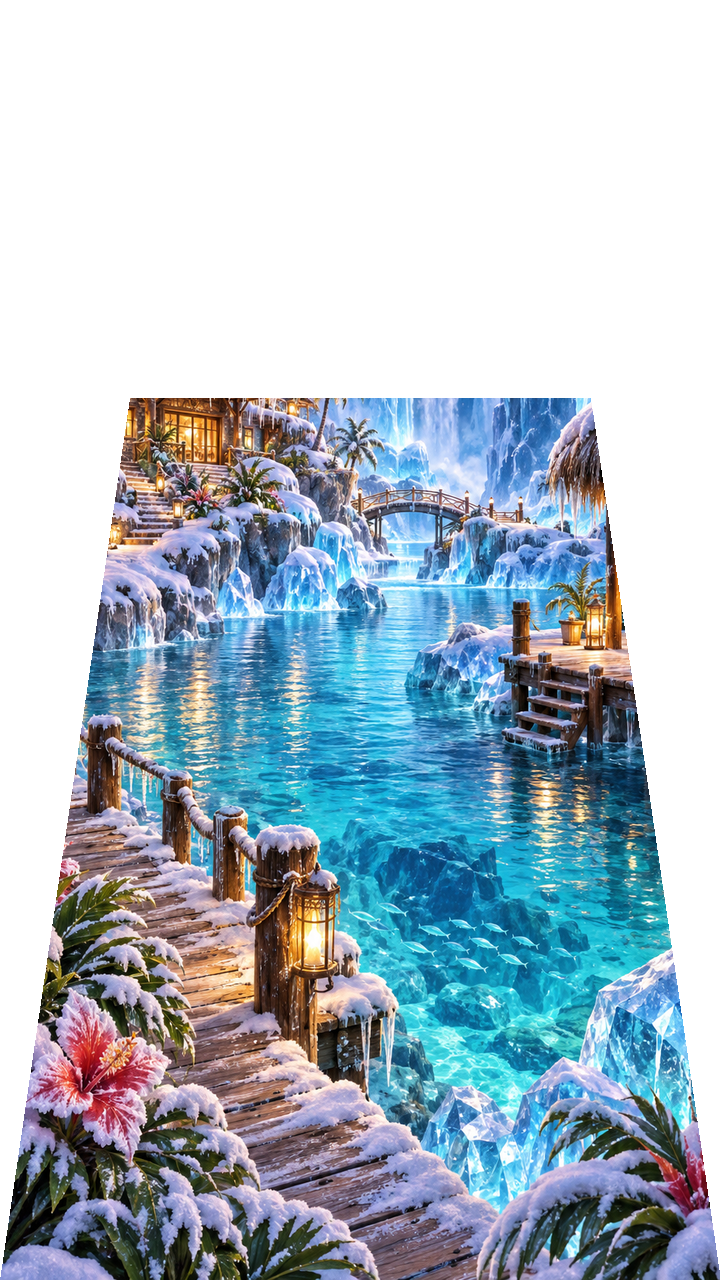
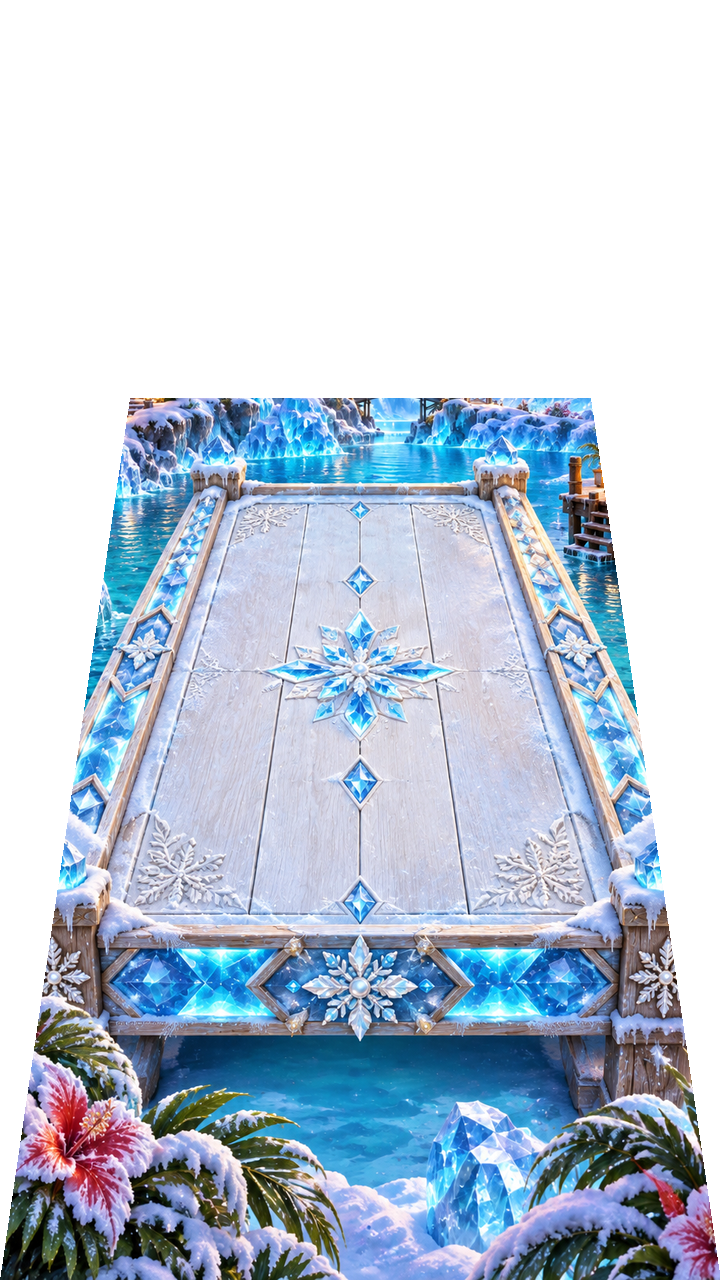
Generate Frozen Paradise visual asset pack

diff --git a/coordination/codex_visual_assets/CODEX_VISUAL_ASSET_TASKS.md b/coordination/codex_visual_assets/CODEX_VISUAL_ASSET_TASKS.md
@@ -91,19 +91,19 @@ Protected canonical logo is pre-marked preserved.
 - [x] VA-073 Generate → `assets/ui_assets/campaign/islands/final_island/table_edge_overlay.png`
 - [x] VA-074 Generate → `assets/ui_assets/campaign/islands/final_island/theme_badge.png`
 - [x] VA-075 Generate → `assets/ui_assets/campaign/islands/final_island/world_icon.png`
-- [ ] VA-076 Generate → `assets/ui_assets/campaign/islands/frozen_paradise/complete_badge.png`
-- [ ] VA-077 Generate → `assets/ui_assets/campaign/islands/frozen_paradise/decor_back.png`
-- [ ] VA-078 Generate → `assets/ui_assets/campaign/islands/frozen_paradise/decor_left.png`
-- [ ] VA-079 Generate → `assets/ui_assets/campaign/islands/frozen_paradise/decor_right.png`
-- [ ] VA-080 Generate → `assets/ui_assets/campaign/islands/frozen_paradise/gameplay_background.png`
-- [ ] VA-081 Generate → `assets/ui_assets/campaign/islands/frozen_paradise/gameplay_table.png`
-- [ ] VA-082 Generate → `assets/ui_assets/campaign/islands/frozen_paradise/gameplay_table_shadow.png`
-- [ ] VA-083 Generate → `assets/ui_assets/campaign/islands/frozen_paradise/launch_zone.png`
-- [ ] VA-084 Generate → `assets/ui_assets/campaign/islands/frozen_paradise/map_background.png`
-- [ ] VA-085 Generate → `assets/ui_assets/campaign/islands/frozen_paradise/map_title.png`
-- [ ] VA-086 Generate → `assets/ui_assets/campaign/islands/frozen_paradise/table_edge_overlay.png`
-- [ ] VA-087 Generate → `assets/ui_assets/campaign/islands/frozen_paradise/theme_badge.png`
-- [ ] VA-088 Generate → `assets/ui_assets/campaign/islands/frozen_paradise/world_icon.png`
+- [x] VA-076 Generate → `assets/ui_assets/campaign/islands/frozen_paradise/complete_badge.png`
+- [x] VA-077 Generate → `assets/ui_assets/campaign/islands/frozen_paradise/decor_back.png`
+- [x] VA-078 Generate → `assets/ui_assets/campaign/islands/frozen_paradise/decor_left.png`
+- [x] VA-079 Generate → `assets/ui_assets/campaign/islands/frozen_paradise/decor_right.png`
+- [x] VA-080 Generate → `assets/ui_assets/campaign/islands/frozen_paradise/gameplay_background.png`
+- [x] VA-081 Generate → `assets/ui_assets/campaign/islands/frozen_paradise/gameplay_table.png`
+- [x] VA-082 Generate → `assets/ui_assets/campaign/islands/frozen_paradise/gameplay_table_shadow.png`
+- [x] VA-083 Generate → `assets/ui_assets/campaign/islands/frozen_paradise/launch_zone.png`
+- [x] VA-084 Generate → `assets/ui_assets/campaign/islands/frozen_paradise/map_background.png`
+- [x] VA-085 Generate → `assets/ui_assets/campaign/islands/frozen_paradise/map_title.png`
+- [x] VA-086 Generate → `assets/ui_assets/campaign/islands/frozen_paradise/table_edge_overlay.png`
+- [x] VA-087 Generate → `assets/ui_assets/campaign/islands/frozen_paradise/theme_badge.png`
+- [x] VA-088 Generate → `assets/ui_assets/campaign/islands/frozen_paradise/world_icon.png`
 - [ ] VA-089 Generate → `assets/ui_assets/campaign/islands/party_beach/complete_badge.png`
 - [ ] VA-090 Generate → `assets/ui_assets/campaign/islands/party_beach/decor_back.png`
 - [ ] VA-091 Generate → `assets/ui_assets/campaign/islands/party_beach/decor_left.png`

diff --git a/coordination/codex_visual_assets/CODEX_VISUAL_ASSET_LOG.md b/coordination/codex_visual_assets/CODEX_VISUAL_ASSET_LOG.md
@@ -174,3 +174,15 @@ V05 production visuals are owner-rejected and are not style authority.
 - Remote branch: `codex/visual-assets-production`.
 - Remote verification: local HEAD, `origin/codex/visual-assets-production`, and `git ls-remote` all resolved to `f54391fb84c6057d60f5232f83a8507085df494e`.
 - Worktree remained clean after push.
+
+## Batch 011 — Frozen Paradise island pack
+
+- Timestamp: 2026-09-22 01:50:46 +03:00.
+- Tasks: VA-076 through VA-088.
+- Outputs: all 13 `assets/ui_assets/campaign/islands/frozen_paradise/**` targets in the master list.
+- Generation: one separate built-in image-generation operation per distinct completion badge, decorative element, gameplay background, table material, table shadow, launch zone, map background, map title, table-edge overlay, theme badge and world icon; V04 `frozen_paradise_master.png` was the direct authority. No V05 art or atlas slicing used.
+- Technical cleanup: exact master-list resizing, transparent compositing and frozen table-mask application only. `gameplay_table.png` uses the canonical `table_silhouette_mask.png` alpha without changing the protected geometry.
+- Rejected/regenerated attempts: none.
+- QA: exact dimensions and RGBA verified for all 13 outputs; gameplay-table alpha compared against the canonical mask with zero differing pixels.
+- Blockers: none.
+- Commit/push: published in commit recorded below.

diff --git a/coordination/codex_visual_assets/CODEX_VISUAL_PRODUCTION_MASTER_LOG.md b/coordination/codex_visual_assets/CODEX_VISUAL_PRODUCTION_MASTER_LOG.md
@@ -169,3 +169,12 @@ Append one concise section per visual batch:
 - Implementation commit: `f54391fb84c6057d60f5232f83a8507085df494e`.
 - Remote branch: `codex/visual-assets-production`.
 - Remote verification: local HEAD, `origin/codex/visual-assets-production`, and `git ls-remote` matched the implementation commit.
+
+## Batch 011 — Frozen Paradise island pack
+
+- Timestamp: 2026-09-22 01:50:46 +03:00.
+- Dedicated targets generated: 13.
+- Separate image-generation operation used for each distinct Frozen Paradise asset with V04 Frozen Paradise authority; no V05 visuals or atlas slicing used.
+- Target family: Frozen Paradise completion badge, decorations, gameplay/map backgrounds, frozen-geometry table material and overlays, launch zone, title, theme badge and world icon.
+- Validation: all 13 canonical paths are exact-size RGBA files; gameplay table alpha matches the protected table silhouette mask pixel-for-pixel.
+- Publication: pending commit and push to `codex/visual-assets-production`.
